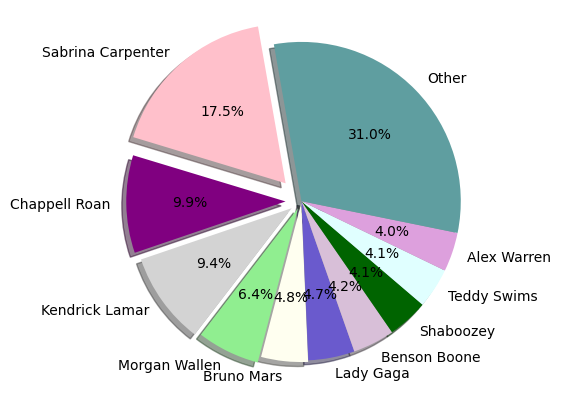
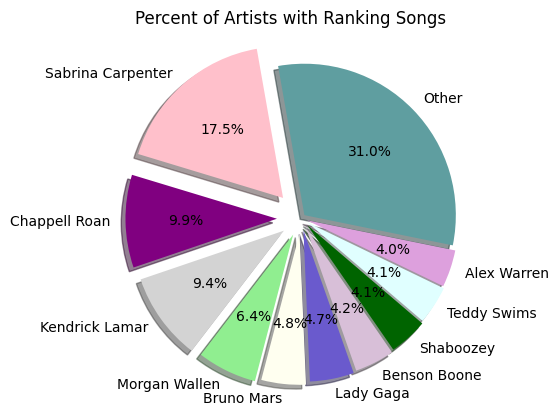
fixed pie chart

diff --git a/visuals.py b/visuals.py
@@ -49,17 +49,15 @@ def graph_scatter_rank_vs_popularity(cur):
     ### make plot
     # create the graph
     fig, ax = plt.subplots()
-    ax.plot(rank, rank, color='brown', label="Billboard Rank")
-    ax.scatter(rank, popularity, marker='*', s=55, facecolors='gold', edgecolors='black', linewidths=0.3, label="Spotify Popularity")
+    ax.scatter(rank, popularity, marker='*', s=50, facecolors='gold', edgecolors='black', linewidths=0.3, label="Spotify Popularity")
     
     # start at origin
     ax.set_xlim(left=0)
     ax.set_ylim(bottom=0)
     # label everything
-    ax.set_xlabel('Ranking')
-    ax.set_ylabel('Value')
+    ax.set_xlabel('Billboard Ranking')
+    ax.set_ylabel('Spotify Popularity')
     ax.set_title('Billboard Rank vs Spotify Popularity for Top 100 Songs')
-    ax.legend()
     ax.grid()
 
     # save the graph
@@ -68,9 +66,9 @@ def graph_scatter_rank_vs_popularity(cur):
     # show the graph
     plt.show()
 
-def graph_scatter_album_release_vs_rank(cur):
+def graph_scatter_album_release_rank_num(cur):
     """
-    Graphs scatter plot of album release date vs rank for each song.
+    Graphs scatter plot of number of billboard ranking songs per album release date by year.
 
     INPUT - database cursor
 
@@ -78,10 +76,9 @@ def graph_scatter_album_release_vs_rank(cur):
     """
     # get data
     releaseDate = []
-    rank = []
     cur.execute(
         """
-        SELECT Albums.release_date, Songs.rank
+        SELECT Albums.release_date
         FROM Songs
         JOIN Albums ON Albums.id = Songs.album_id
         WHERE Albums.release_date IS NOT NULL
@@ -92,11 +89,9 @@ def graph_scatter_album_release_vs_rank(cur):
     # process results
     for row in result:
         d = row[0][:7]
-        r = row[1]
         y = d[0:4]
 
         releaseDate.append(d)
-        rank.append(r)
     
     # split release dates
     years = {}
@@ -137,16 +132,15 @@ def graph_scatter_album_release_vs_rank(cur):
     
     # start at origin
     ax.set_ylim(bottom=0)
-    # ax.set_xticks(monthMarks)
     # label everything
     ax.set_xlabel('Release Date (MM)')
     ax.set_ylabel('Number of Billboard Ranking Songs')
     ax.legend()
-    ax.set_title(f"Number of Billboard Ranking Songs per Album Release Date as of {prevYear}-{monthMarks[prevMonth]} (YY-MM)")
+    ax.set_title(f"Number of Billboard Ranking Songs per Album Release Date as of {prevYear}-{monthMarks[prevMonth]} (YYYY-MM)")
     ax.grid()
 
     # save the graph
-    fig.savefig("albumRelease_vs_rank.png", bbox_inches='tight')
+    fig.savefig("rank_byalbumRelease.png", bbox_inches='tight')
 
     # show the graph
     plt.show()    
@@ -192,7 +186,7 @@ def graph__bar_top_artists_by_song_count(cur):
     # label everything
     ax.set_xlabel('Number of Top Songs')
     ax.set_ylabel('Artist')
-    ax.set_title('Artists With Top Ranking Songs')
+    ax.set_title('Top Artists by Number of Ranking Songs')
     ax.grid()
 
     # save the graph
@@ -223,7 +217,7 @@ def graph_pie_artist_popularity_sum(cur):
         ORDER BY total_popularity DESC
         """
     )
-    # process results
+    # process results -- save top 10 artists
     result = cur.fetchall()
     remaining = 0
     count = 0
@@ -244,10 +238,11 @@ def graph_pie_artist_popularity_sum(cur):
     # create the graph
     fig, ax = plt.subplots()
     colors = ['pink', 'purple', 'lightgray', 'lightgreen', 'ivory', 'slateblue', 'thistle', 'darkgreen', 'lightcyan', 'plum', 'cadetblue']
-    explode = (0.15, 0.1, 0.075, 0.05, 0.01, 0, 0, 0, 0, 0, 0)
+    explode = (0.18, 0.16, 0.14, 0.12, 0.1, 0.08, 0.07, 0.06, 0.05, 0.04, 0.03)
+    ax.set_title('Percent of Artists with Ranking Songs')
 
     plt.pie(popularity, explode=explode, labels=artist, colors=colors,
-        autopct='%3.1f%%', shadow=True, startangle=100)
+        autopct='%1.1f%%', shadow=True, startangle=100)
  
     # label everything
     plt.axis('equal')
@@ -261,8 +256,8 @@ def graph_pie_artist_popularity_sum(cur):
 # make all visuals
 if __name__ == "__main__":
     cur, conn = connect_to_music_data()
-    graph_scatter_rank_vs_popularity(cur)
-    graph_scatter_album_release_vs_rank(cur)
-    graph__bar_top_artists_by_song_count(cur)
+    # graph_scatter_rank_vs_popularity(cur)
+    # graph_scatter_album_release_rank_num(cur)
+    # graph__bar_top_artists_by_song_count(cur)
     graph_pie_artist_popularity_sum(cur)
     conn.close()
